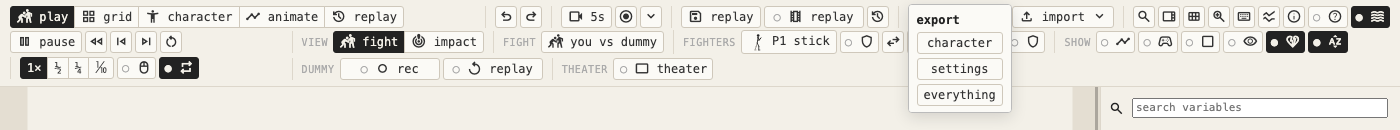
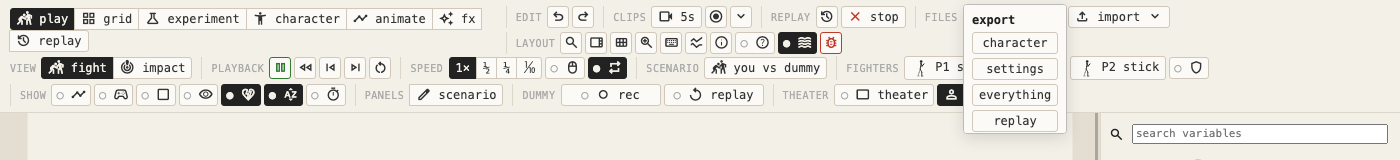
Move replay save/load into export/import; label every menu group
- the menu bar's save-replay and play-replay-file buttons move into
  the export/import menus as plain items, next to character/
  settings/everything — matches how every other file action works
- play-replay-file was a toggle (load = on, stop = off), confusing
  since nothing else there is a toggle; now import->replay just
  loads one, and the replay group gets a plain, self-disabling
  "stop" button for returning to the live fight
- every menu bar group gets a real label (edit, clips, replay,
  files, layout), matching every other toolbar's convention

Changed region(s): [[0.0, 0.0, 1.0, 0.8923], [0.7986, 0.8923, 1.0, 0.9231], [0.0, 0.0308, 0.0614, 0.0615]]

diff --git a/src/app.js b/src/app.js
@@ -113,14 +113,14 @@ function buildTop() {
   const soundBtn = button('', 'Sound: whooshes, hits and blocks in play and in the animate preview, synthesized live (no sound files); off by default in automated browsers', toggleMute, 'tog');
   reg(soundBtn, () => { soundBtn.classList.toggle('on', !muted()); setRich(soundBtn, muted() ? ':volume_off:' : ':waves:'); });
   $('global').replaceChildren(
-    grp('', 'Edit history', button(':undo:', 'Undo the last edit: character, moves or settings (⌘Z)', undo), button(':redo:', 'Redo the last undone edit (⇧⌘Z)', redo)),
+    grp('edit', 'Edit history', button(':undo:', 'Undo the last edit: character, moves or settings (⌘Z)', undo), button(':redo:', 'Redo the last undone edit (⇧⌘Z)', redo)),
     clipGroup(),
-    grp('', 'Replay files: a whole play fight (inputs, settings, characters), pinned to the engine version', replaySave(), replayFile(),
-      button(':history:', 'Edit the play fight in the replay tab: its events on a timeline and in a table', reelFromPlay)),
-    grp('', 'Files: the character, the settings or everything, as JSON', button(':download: export :expand_more:', 'Export to a file: the character, the settings or everything', fileMenu('export', exportFile)),
-      button(':upload: import :expand_more:', 'Import from a file: a character, settings or everything', fileMenu('import', importFile,
-        button('compare…', 'Compare settings: the current ones against a settings or everything file, setting by setting (grid tab)', compareFile)))),
-    grp('', 'Layout and keys', button(':search:', 'Find anything (⌘K): a mode, a toolbar tool, an action, a table (moves, inputs, combos, bones), a character, a move or a setting', openPalette),
+    grp('replay', 'Edit the play fight in the replay tab, or stop a loaded replay file (export / import, in files) and return to the live fight',
+      button(':history:', 'Edit the play fight in the replay tab: its events on a timeline and in a table', reelFromPlay), stopReplayButton()),
+    grp('files', 'The character, the settings, everything, or this play fight as a replay, as JSON', button(':download: export :expand_more:', 'Export to a file: the character, the settings, everything, or this play fight as a replay', fileMenu('export', exportFile, replayExportItem())),
+      button(':upload: import :expand_more:', 'Import from a file: a character, settings, everything, or a replay to play back', fileMenu('import', importFile,
+        replayImportItem(), button('compare…', 'Compare settings: the current ones against a settings or everything file, setting by setting (grid tab)', compareFile)))),
+    grp('layout', 'Layout and keys', button(':search:', 'Find anything (⌘K): a mode, a toolbar tool, an action, a table (moves, inputs, combos, bones), a character, a move or a setting', openPalette),
       button(':view_sidebar:', 'Panel: show / hide the side panel (remembered per tab)' + keyTip('panel'), togglePanel),
       button(':view_module:', LAY_TIP, layoutPanel),
       button(':zoom_in:', 'Interface scale: the whole page bigger or smaller (not the fight itself, which always fills its own space)', (e, b) => popup(b,

diff --git a/tests/browser.js b/tests/browser.js
@@ -302,13 +302,20 @@ try {
   // the menu bar's files: export / import character, settings or everything; settings round-trip, out-of-range values fall back to the default
   { setMode('play'); const top = t => [...document.querySelectorAll('#global button')].find(b => b.textContent.includes(t)), got = [], dl = download, of = openFile;
     top('export').click(); const menu = [...document.querySelectorAll('.pop button')].map(b => b.textContent).join(); closePop();
-    if (menu !== 'character,settings,everything' || !top('import')) errs.push('file menu ' + menu);
+    if (menu !== 'character,settings,everything,replay' || !top('import')) errs.push('file menu ' + menu);
     download = (n, d) => got.push(JSON.parse(JSON.stringify(d))); let feed; openFile = f => f(feed);
     setCfg({ hitstop: 0.12 }); exportFile('settings'); setCfg({ hitstop: DEFAULTS.hitstop }); feed = got[0]; importFile('settings');
     if (CFG.hitstop !== 0.12) errs.push('settings import ' + CFG.hitstop);
     feed = { format: 'stick2.settings', cfg: { hitstop: 99 } }; importFile('settings'); if (CFG.hitstop !== 99) errs.push('settings any number ' + CFG.hitstop); CFG.hitstop = DEFAULTS.hitstop;
     exportFile('everything'); if (got[1]?.format !== 'stick2.everything' || got[1].current !== CURRENT) errs.push('everything export');
-    download = dl; openFile = of; }
+    download = dl; openFile = of;
+    top('import').click(); const imenu = [...document.querySelectorAll('.pop button')].map(b => b.textContent).join(); closePop();
+    if (imenu !== 'character,settings,everything,replay,compare…') errs.push('import menu ' + imenu);
+    // the replay group: a loaded file's own stop button is disabled until one is playing, not a toggle
+    const stopBtn = () => [...document.querySelectorAll('#global button')].find(b => b.dataset.tip?.startsWith('Stop playing this replay'));
+    if (!stopBtn().disabled) errs.push('stop replay should start disabled');
+    lab.playback = { scenario: lab.scen }; syncAll(); if (stopBtn().disabled) errs.push('stop replay should enable once one is loaded');
+    stopBtn().click(); if (lab.playback) errs.push('stop replay did not clear it'); build(); }
   // side panel: headings fold their section (remembered), advanced rows wait behind "more", a search shows everything
   { setMode('play'); const sec = name => [...document.querySelectorAll('#side .fold')].find(f => f.querySelector('h3').textContent.toLowerCase().startsWith(name));
     const vis = el => !!el.offsetParent, row = k => [...document.querySelectorAll('#side .row')].find(r => r.firstChild.textContent === k);

diff --git a/src/lab.js b/src/lab.js
@@ -462,14 +462,19 @@ function trainingCtl() {
   reg(rep, () => { rep.disabled = !human() || lab.rec || !lab.tape?.length; });
   return [grp('dummy', 'Record your inputs for the dummy to play back', rec, rep)];
 }
-// the menu bar's replay buttons: save the play fight (play only), play a replay file (switches to play)
-function replaySave() {
-  const b = button(':save: save', `Save the play fight so far as a replay file: its inputs, settings and characters, pinned to engine v${ENGINE_VERSION} (other versions play it out differently)`, saveReplay);
+// the export/import menus' replay items: export the play fight so far (play only), import one to play back (switches to play)
+function replayExportItem() {
+  const b = button('replay', `Export the play fight so far as a replay file: its inputs, settings and characters, pinned to engine v${ENGINE_VERSION} (other versions play it out differently)`, saveReplay);
   reg(b, () => { b.disabled = app.mode !== 'play' || !lab.cells[0]?.w.log.length; });
   return b;
 }
-const replayFile = () => toggle(':theaters: file', 'Play a saved replay file in play (inputs, settings and characters of a recorded fight); click again to stop. A file from another engine version plays out differently: it asks first, and the top line shows where it goes out of sync',
-  () => !!lab.playback, v => v ? loadReplay() : (lab.playback = null, build()));
+const replayImportItem = () => button('replay', 'Play a saved replay file in play (inputs, settings and characters of a recorded fight). A file from another engine version plays out differently: it asks first, and the top line shows where it goes out of sync', loadReplay);
+// the menu bar's replay group: only a loaded replay file needs stopping (picking a scenario already clears it)
+function stopReplayButton() {
+  const b = button(':close: stop', 'Stop playing this replay file and return to the live fight', () => { lab.playback = null; build(); });
+  reg(b, () => { b.disabled = !lab.playback; });
+  return b;
+}
 // the blow controls (impact's ragdoll, the creator's impact preview): what, how hard, from which side, and stand it up again
 // under the preview, not the toolbar — it is its own thing to play with, not a setting of the view
 // (inPv: the creator/animate split layout, where the preview is only the right-hand pane, not the whole canvas)

diff --git a/tools/screenshots.js b/tools/screenshots.js
@@ -40,7 +40,7 @@ const SHOTS = {
   stancereq: [`setMode('character'); pickChar('stick'); studio.stance = 1; lay().fold['character:stance pose'] = false; panels(); ${run(5)}
     [...document.querySelectorAll('#side h3')].find(el => el.textContent.toLowerCase().includes('stance pose')).scrollIntoView();`, [1080, 60, 320, 740]],
   fighters: [`lab.scen = 'ai 2v2'; setMode('play'); build(); panels(); ${run(30)} document.querySelectorAll('.fpick')[2].click();`, [0, 0, 1000, 700]],
-  menubar: [`setMode('play'); panels(); ${run(30)} [...document.querySelectorAll('#global button')].find(b => b.dataset.tip?.startsWith('Export')).click();`, [0, 0, 1400, 130]],
+  menubar: [`setMode('play'); panels(); ${run(30)} [...document.querySelectorAll('#global button')].find(b => b.dataset.tip?.startsWith('Export')).click();`, [0, 0, 1400, 160]],
   // a popup is placed to fit the small capture window: put it back where it opens in the full page
   layout: [`setMode('play'); panels(); ${run(30)} $('global').querySelector('button[data-tip^="Layout:"]').click(); Object.assign(pop.style, { left: '560px', top: '32px', maxHeight: 'none' });`, [540, 20, 460, 540]],
   debug: [`setMode('play'); panels(); ${run(90)} debugBtn().click(); Object.assign(pop.style, { left: '955px', top: '32px', maxHeight: 'none' }); dbgT = 0; drawDebug(); drawScope();`, [940, 20, 400, 540]],

diff --git a/src/clip.js b/src/clip.js
@@ -210,5 +210,5 @@ function clipGroup() {
     row('fps', 'Frames a second: more is smoother, fewer gives smaller files', pick('fps', CLIP_FPS, String)),
     row('aspect', 'The clip\'s shape: the watched view\'s own, or a fixed one (16:9 video, 1:1 square, 9:16 phone)', pick('aspect', Object.keys(CLIP_ASPECTS), String)),
     row('fit', 'Another shape than the view\'s: crop its middle, or fit all of it with bars', pick('fit', ['crop', 'letterbox'], String))));
-  return grp('', 'Clips: save the last seconds of what you watch, or record it, as a GIF or a WebM', save, rec, opts);
+  return grp('clips', 'Clips: save the last seconds of what you watch, or record it, as a GIF or a WebM', save, rec, opts);
 }

diff --git a/docs/interface.md b/docs/interface.md
@@ -12,7 +12,7 @@ Three rows, the same in every tab:
 
 | Row | What's on it |
 |---|---|
-| menu bar | the tabs · undo / redo · clip / record · replay save / play · export / import · search, panel, layout, keys, debug, docs, hints, sound |
+| menu bar | the tabs · undo / redo · clip / record · replay (edit in the replay tab, stop a loaded replay file) · export / import · search, panel, layout, keys, debug, docs, hints, sound |
 | transport | pause, rewind, step back, step, restart, speed, scrub, loop (the same in every mode) |
 | toolbar | the mode's own tools in labelled groups, in the same order on every tab: view, what you work on (scenario, fighters, moves…), the tab's tools, **show** (overlays), **panels** (tables over the stage: click again, × or Esc closes; each tab keeps its own) |
 
@@ -25,6 +25,7 @@ Three rows, the same in every tab:
 | character | the current character |
 | settings | every setting changed from its default (the debug views left out) |
 | everything | your edited and new characters, the changed settings, your scenarios and your keys, as one JSON file |
+| replay | **export**: the play fight so far (needs one running); **import**: play a saved replay file in play — the **replay** group's **stop** button (disabled until one is loaded) returns to the live fight |
 
 - Importing **everything** asks first.
 - A broken character in the file loads nothing.
